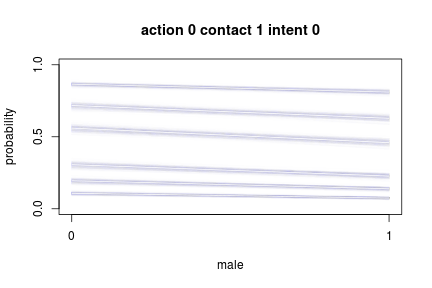
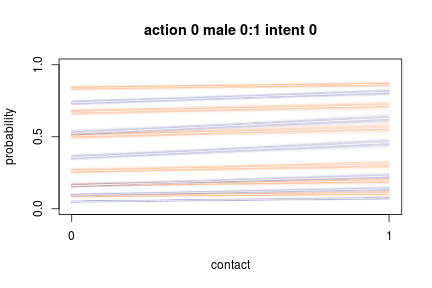
Complete draft pr 1 a code

Changed region(s): [[0.1505, 0.2812, 0.9028, 0.7188], [0.3009, 0.0625, 0.7523, 0.125], [0.4815, 0.9062, 0.5718, 0.9375]]

diff --git a/hw8ashander.tex b/hw8ashander.tex
@@ -448,110 +448,10 @@
 \definecolor{shadecolor}{rgb}{.97, .97, .97}{\color{fgcolor}\begin{kframe}
 \begin{flushleft}
 \ttfamily\noindent
-\hlsymbol{m0}{\ }\hlassignement{\usebox{\hlnormalsizeboxlessthan}-}{\ }\hlfunctioncall{mle2}\hlkeyword{(}\hlsymbol{response}{\ }\hlkeyword{\urltilda{}}{\ }\hlfunctioncall{dordlogit}\hlkeyword{(}\hlargument{a}{\ }\hlargument{=}{\ }\hlfunctioncall{c}\hlkeyword{(}\hlsymbol{a1}\hlkeyword{,}{\ }\hlsymbol{a2}\hlkeyword{,}{\ }\hlsymbol{a3}\hlkeyword{,}{\ }\hlsymbol{a4}\hlkeyword{,}{\ }\hlsymbol{a5}\hlkeyword{,}\hspace*{\fill}\\
-\hlstd{}{\ }{\ }{\ }{\ }\hlsymbol{a6}\hlkeyword{)}\hlkeyword{,}{\ }\hlargument{phi}{\ }\hlargument{=}{\ }\hlsymbol{bA}{\ }\hlkeyword{*}{\ }\hlsymbol{action}{\ }\hlkeyword{+}{\ }\hlsymbol{bI}{\ }\hlkeyword{*}{\ }\hlsymbol{intention}\hlkeyword{)}\hlkeyword{,}{\ }\hlargument{data}{\ }\hlargument{=}{\ }\hlsymbol{d}\hlkeyword{,}{\ }\hlargument{start}{\ }\hlargument{=}{\ }\hlfunctioncall{list}\hlkeyword{(}\hlargument{a1}{\ }\hlargument{=}{\ }\hlkeyword{-}\hlnumber{2}\hlkeyword{,}\hspace*{\fill}\\
-\hlstd{}{\ }{\ }{\ }{\ }\hlargument{a2}{\ }\hlargument{=}{\ }\hlkeyword{-}\hlnumber{1}\hlkeyword{,}{\ }\hlargument{a3}{\ }\hlargument{=}{\ }\hlnumber{0}\hlkeyword{,}{\ }\hlargument{a4}{\ }\hlargument{=}{\ }\hlnumber{1}\hlkeyword{,}{\ }\hlargument{a5}{\ }\hlargument{=}{\ }\hlnumber{2}\hlkeyword{,}{\ }\hlargument{a6}{\ }\hlargument{=}{\ }\hlnumber{2.5}\hlkeyword{,}{\ }\hlargument{bA}{\ }\hlargument{=}{\ }\hlnumber{0}\hlkeyword{,}{\ }\hlargument{bI}{\ }\hlargument{=}{\ }\hlnumber{0}\hlkeyword{)}\hlkeyword{)}\mbox{}
-\normalfont
-\end{flushleft}
-\begin{verbatim}
-## Warning message: NaNs produced
-\end{verbatim}
-\begin{verbatim}
-## Warning message: NaNs produced
-\end{verbatim}
-\begin{verbatim}
-## Warning message: NaNs produced
-\end{verbatim}
-\begin{verbatim}
-## Warning message: NaNs produced
-\end{verbatim}
-\begin{verbatim}
-## Warning message: NaNs produced
-\end{verbatim}
-\begin{verbatim}
-## Warning message: NaNs produced
-\end{verbatim}
-\begin{verbatim}
-## Warning message: NaNs produced
-\end{verbatim}
-\begin{verbatim}
-## Warning message: NaNs produced
-\end{verbatim}
-\begin{verbatim}
-## Warning message: NaNs produced
-\end{verbatim}
-\begin{verbatim}
-## Warning message: NaNs produced
-\end{verbatim}
-\begin{verbatim}
-## Warning message: NaNs produced
-\end{verbatim}
-\begin{verbatim}
-## Warning message: NaNs produced
-\end{verbatim}
-\begin{verbatim}
-## Warning message: NaNs produced
-\end{verbatim}
-\begin{verbatim}
-## Warning message: NaNs produced
-\end{verbatim}
-\begin{verbatim}
-## Warning message: NaNs produced
-\end{verbatim}
-\begin{verbatim}
-## Warning message: NaNs produced
-\end{verbatim}
-\begin{verbatim}
-## Warning message: NaNs produced
-\end{verbatim}
-\begin{verbatim}
-## Warning message: NaNs produced
-\end{verbatim}
-\begin{verbatim}
-## Warning message: NaNs produced
-\end{verbatim}
-\begin{verbatim}
-## Warning message: NaNs produced
-\end{verbatim}
-\begin{verbatim}
-## Warning message: NaNs produced
-\end{verbatim}
-\begin{verbatim}
-## Warning message: NaNs produced
-\end{verbatim}
-\begin{verbatim}
-## Warning message: NaNs produced
-\end{verbatim}
-\begin{verbatim}
-## Warning message: NaNs produced
-\end{verbatim}
-\begin{verbatim}
-## Warning message: NaNs produced
-\end{verbatim}
-\begin{verbatim}
-## Warning message: NaNs produced
-\end{verbatim}
-\begin{verbatim}
-## Warning message: NaNs produced
-\end{verbatim}
-\begin{verbatim}
-## Warning message: NaNs produced
-\end{verbatim}
-\begin{verbatim}
-## Warning message: NaNs produced
-\end{verbatim}
-\begin{verbatim}
-## Warning message: NaNs produced
-\end{verbatim}
-\begin{verbatim}
-## Warning message: NaNs produced
-\end{verbatim}
-\begin{verbatim}
-## Warning message: NaNs produced
-\end{verbatim}
-\begin{flushleft}
-\ttfamily\noindent
-\hspace*{\fill}\\
+\hlcomment{\usebox{\hlnormalsizeboxhash}m0{\ }\usebox{\hlnormalsizeboxlessthan}-{\ }mle2(response{\ }\urltilda{}{\ }dordlogit(a=c(a1,a2,a3,a4,a5,a6),}\hspace*{\fill}\\
+\hlstd{}\hlcomment{\usebox{\hlnormalsizeboxhash}{\ }{\ }{\ }phi=bA*action{\ }+{\ }bI*intention),{\ }data=d,}\hspace*{\fill}\\
+\hlstd{}\hlcomment{\usebox{\hlnormalsizeboxhash}{\ }{\ }{\ }start=list(a1=-2,a2=-1,a3=0,a4=1,a5=2,a6=2.5,bA=0,bI=0))}\hspace*{\fill}\\
+\hlstd{}\hspace*{\fill}\\
 \hlstd{}\hlsymbol{m1}{\ }\hlassignement{\usebox{\hlnormalsizeboxlessthan}-}{\ }\hlfunctioncall{polr}\hlkeyword{(}\hlfunctioncall{as.ordered}\hlkeyword{(}\hlsymbol{response}\hlkeyword{)}{\ }\hlkeyword{\urltilda{}}{\ }\hlsymbol{action}{\ }\hlkeyword{*}{\ }\hlsymbol{intention}{\ }\hlkeyword{+}{\ }\hlsymbol{contact}{\ }\hlkeyword{*}\hspace*{\fill}\\
 \hlstd{}{\ }{\ }{\ }{\ }\hlsymbol{intention}\hlkeyword{,}{\ }\hlargument{data}{\ }\hlargument{=}{\ }\hlsymbol{d}\hlkeyword{,}{\ }\hlargument{Hess}{\ }\hlargument{=}{\ }\hlnumber{TRUE}\hlkeyword{)}\hspace*{\fill}\\
 \hlstd{}\hlsymbol{m2}{\ }\hlassignement{\usebox{\hlnormalsizeboxlessthan}-}{\ }\hlfunctioncall{polr}\hlkeyword{(}\hlfunctioncall{as.ordered}\hlkeyword{(}\hlsymbol{response}\hlkeyword{)}{\ }\hlkeyword{\urltilda{}}{\ }\hlsymbol{action}{\ }\hlkeyword{*}{\ }\hlsymbol{intention}{\ }\hlkeyword{+}{\ }\hlsymbol{contact}{\ }\hlkeyword{*}\hspace*{\fill}\\
@@ -572,44 +472,58 @@
 \end{knitrout}
 
 
+Model an interaction between gender and contact. 
+Also look at a model without the interaction, but with gender. 
+
+Gender improves the model. 
+Model averaging is equivocal on the question of an interaction. 
+Both AICc and BIC put some weight on each of the models with gender (with and without an interaction). 
+BIC favors the interaction-less model, while AIC the other. 
+As a conservative test, I'll use model averaging based on AICc (which seems to favor an interaction between contact and gender) to  check for support for the interaction in plotted results. 
+
+
 \begin{knitrout}
 \definecolor{shadecolor}{rgb}{.97, .97, .97}{\color{fgcolor}\begin{kframe}
 \begin{flushleft}
 \ttfamily\noindent
 \hspace*{\fill}\\
-\hlstd{}\hlsymbol{post}{\ }\hlassignement{\usebox{\hlnormalsizeboxlessthan}-}{\ }\hlfunctioncall{sample.naive.posterior}\hlkeyword{(}\hlsymbol{m2}\hlkeyword{)}\hspace*{\fill}\\
+\hlstd{}\hlsymbol{post}{\ }\hlassignement{\usebox{\hlnormalsizeboxlessthan}-}{\ }\hlfunctioncall{sample.naive.posterior}\hlkeyword{(}\hlfunctioncall{list}\hlkeyword{(}\hlsymbol{m2}\hlkeyword{,}{\ }\hlsymbol{m3}\hlkeyword{)}\hlkeyword{,}{\ }\hlargument{n}{\ }\hlargument{=}{\ }\hlnumber{20000}\hlkeyword{,}{\ }\hlargument{method}{\ }\hlargument{=}{\ }\hlstring{"{}AICc"{}}\hlkeyword{,}\hspace*{\fill}\\
+\hlstd{}{\ }{\ }{\ }{\ }\hlargument{nobs}{\ }\hlargument{=}{\ }\hlfunctioncall{nrow}\hlkeyword{(}\hlsymbol{d}\hlkeyword{)}\hlkeyword{)}\hspace*{\fill}\\
 \hlstd{}\hlsymbol{prob.indices}{\ }\hlassignement{\usebox{\hlnormalsizeboxlessthan}-}{\ }\hlfunctioncall{grep}\hlkeyword{(}\hlstring{"{}1|2|3|4|5|6|7"{}}\hlkeyword{,}{\ }\hlfunctioncall{names}\hlkeyword{(}\hlsymbol{post}\hlkeyword{)}\hlkeyword{)}\hspace*{\fill}\\
 \hlstd{}\hspace*{\fill}\\
-\hlstd{}\hlfunctioncall{plot}\hlkeyword{(}\hlnumber{1}\hlkeyword{,}{\ }\hlnumber{1}\hlkeyword{,}{\ }\hlargument{type}{\ }\hlargument{=}{\ }\hlstring{"{}n"{}}\hlkeyword{,}{\ }\hlargument{xlab}{\ }\hlargument{=}{\ }\hlstring{"{}male"{}}\hlkeyword{,}{\ }\hlargument{ylab}{\ }\hlargument{=}{\ }\hlstring{"{}probability"{}}\hlkeyword{,}\hspace*{\fill}\\
+\hlstd{}\hlfunctioncall{plot}\hlkeyword{(}\hlnumber{1}\hlkeyword{,}{\ }\hlnumber{1}\hlkeyword{,}{\ }\hlargument{type}{\ }\hlargument{=}{\ }\hlstring{"{}n"{}}\hlkeyword{,}{\ }\hlargument{xlab}{\ }\hlargument{=}{\ }\hlstring{"{}contact"{}}\hlkeyword{,}{\ }\hlargument{ylab}{\ }\hlargument{=}{\ }\hlstring{"{}probability"{}}\hlkeyword{,}\hspace*{\fill}\\
 \hlstd{}{\ }{\ }{\ }{\ }\hlargument{xlim}{\ }\hlargument{=}{\ }\hlfunctioncall{c}\hlkeyword{(}\hlnumber{0}\hlkeyword{,}{\ }\hlnumber{1}\hlkeyword{)}\hlkeyword{,}{\ }\hlargument{ylim}{\ }\hlargument{=}{\ }\hlfunctioncall{c}\hlkeyword{(}\hlnumber{0}\hlkeyword{,}{\ }\hlnumber{1}\hlkeyword{)}\hlkeyword{,}{\ }\hlargument{xaxp}{\ }\hlargument{=}{\ }\hlfunctioncall{c}\hlkeyword{(}\hlnumber{0}\hlkeyword{,}{\ }\hlnumber{1}\hlkeyword{,}{\ }\hlnumber{1}\hlkeyword{)}\hlkeyword{,}{\ }\hlargument{yaxp}{\ }\hlargument{=}{\ }\hlfunctioncall{c}\hlkeyword{(}\hlnumber{0}\hlkeyword{,}{\ }\hlnumber{1}\hlkeyword{,}\hspace*{\fill}\\
 \hlstd{}{\ }{\ }{\ }{\ }{\ }{\ }{\ }{\ }\hlnumber{2}\hlkeyword{)}\hlkeyword{)}\hspace*{\fill}\\
+\hlstd{}\hlsymbol{col.vec}{\ }\hlassignement{\usebox{\hlnormalsizeboxlessthan}-}{\ }\hlfunctioncall{c}\hlkeyword{(}\hlstring{"{}orange"{}}\hlkeyword{,}{\ }\hlstring{"{}slateblue"{}}\hlkeyword{)}\hspace*{\fill}\\
+\hlstd{}\hlfunctioncall{title}\hlkeyword{(}\hlfunctioncall{paste}\hlkeyword{(}\hlstring{"{}action"{}}\hlkeyword{,}{\ }\hlsymbol{kA}\hlkeyword{,}{\ }\hlstring{"{}male{\ }0:1"{}}\hlkeyword{,}{\ }\hlstring{"{}intent"{}}\hlkeyword{,}{\ }\hlsymbol{kI}\hlkeyword{)}\hlkeyword{)}\hspace*{\fill}\\
 \hlstd{}\hspace*{\fill}\\
-\hlstd{}\hlsymbol{kA}{\ }\hlassignement{\usebox{\hlnormalsizeboxlessthan}-}{\ }\hlnumber{0}\hspace*{\fill}\\
-\hlstd{}\hlsymbol{kC}{\ }\hlassignement{\usebox{\hlnormalsizeboxlessthan}-}{\ }\hlnumber{1}\hspace*{\fill}\\
-\hlstd{}\hlsymbol{kI}{\ }\hlassignement{\usebox{\hlnormalsizeboxlessthan}-}{\ }\hlnumber{0}\hspace*{\fill}\\
-\hlstd{}\hlsymbol{kM}{\ }\hlassignement{\usebox{\hlnormalsizeboxlessthan}-}{\ }\hlnumber{0}\hlkeyword{:}\hlnumber{1}{\ }{\ }\hlcomment{\usebox{\hlnormalsizeboxhash}\usebox{\hlnormalsizeboxhash}{\ }variable{\ }axis}\hspace*{\fill}\\
-\hlstd{}\hlfunctioncall{title}\hlkeyword{(}\hlfunctioncall{paste}\hlkeyword{(}\hlstring{"{}action"{}}\hlkeyword{,}{\ }\hlsymbol{kA}\hlkeyword{,}{\ }\hlstring{"{}contact"{}}\hlkeyword{,}{\ }\hlsymbol{kC}\hlkeyword{,}{\ }\hlstring{"{}intent"{}}\hlkeyword{,}{\ }\hlsymbol{kI}\hlkeyword{)}\hlkeyword{)}\hspace*{\fill}\\
+\hlstd{}\hlkeyword{for}{\ }\hlkeyword{(}\hlsymbol{kM}{\ }\hlkeyword{in}{\ }\hlnumber{0}\hlkeyword{:}\hlnumber{1}\hlkeyword{)}{\ }\hlkeyword{\usebox{\hlnormalsizeboxopenbrace}}\hspace*{\fill}\\
+\hlstd{}{\ }{\ }{\ }{\ }\hlsymbol{kA}{\ }\hlassignement{\usebox{\hlnormalsizeboxlessthan}-}{\ }\hlnumber{0}\hspace*{\fill}\\
+\hlstd{}{\ }{\ }{\ }{\ }\hlsymbol{kI}{\ }\hlassignement{\usebox{\hlnormalsizeboxlessthan}-}{\ }\hlnumber{0}\hspace*{\fill}\\
+\hlstd{}{\ }{\ }{\ }{\ }\hlsymbol{kC}{\ }\hlassignement{\usebox{\hlnormalsizeboxlessthan}-}{\ }\hlnumber{0}\hlkeyword{:}\hlnumber{1}{\ }{\ }\hlcomment{\usebox{\hlnormalsizeboxhash}\usebox{\hlnormalsizeboxhash}{\ }variable{\ }axis}\hspace*{\fill}\\
 \hlstd{}\hspace*{\fill}\\
-\hlstd{}\hlkeyword{for}{\ }\hlkeyword{(}\hlsymbol{s}{\ }\hlkeyword{in}{\ }\hlnumber{1}\hlkeyword{:}\hlnumber{200}\hlkeyword{)}{\ }\hlkeyword{\usebox{\hlnormalsizeboxopenbrace}}\hspace*{\fill}\\
-\hlstd{}{\ }{\ }{\ }{\ }\hlsymbol{p}{\ }\hlassignement{\usebox{\hlnormalsizeboxlessthan}-}{\ }\hlsymbol{post}\hlkeyword{[}\hlsymbol{s}\hlkeyword{,}{\ }\hlkeyword{]}\hspace*{\fill}\\
+\hlstd{}{\ }{\ }{\ }{\ }\hlkeyword{for}{\ }\hlkeyword{(}\hlsymbol{s}{\ }\hlkeyword{in}{\ }\hlnumber{1}\hlkeyword{:}\hlnumber{200}\hlkeyword{)}{\ }\hlkeyword{\usebox{\hlnormalsizeboxopenbrace}}\hspace*{\fill}\\
+\hlstd{}{\ }{\ }{\ }{\ }{\ }{\ }{\ }{\ }\hlsymbol{p}{\ }\hlassignement{\usebox{\hlnormalsizeboxlessthan}-}{\ }\hlsymbol{post}\hlkeyword{[}\hlsymbol{s}\hlkeyword{,}{\ }\hlkeyword{]}\hspace*{\fill}\\
 \hlstd{}\hspace*{\fill}\\
-\hlstd{}{\ }{\ }{\ }{\ }\hlsymbol{ak}{\ }\hlassignement{\usebox{\hlnormalsizeboxlessthan}-}{\ }\hlfunctioncall{as.numeric}\hlkeyword{(}\hlsymbol{p}\hlkeyword{[}\hlsymbol{prob.indices}\hlkeyword{]}\hlkeyword{)}\hspace*{\fill}\\
-\hlstd{}{\ }{\ }{\ }{\ }\hlsymbol{phi}{\ }\hlassignement{\usebox{\hlnormalsizeboxlessthan}-}{\ }\hlfunctioncall{with}\hlkeyword{(}\hlsymbol{p}\hlkeyword{,}{\ }\hlsymbol{kA}{\ }\hlkeyword{*}{\ }\hlsymbol{action}{\ }\hlkeyword{+}{\ }\hlsymbol{kI}{\ }\hlkeyword{*}{\ }\hlsymbol{intention}{\ }\hlkeyword{+}{\ }\hlsymbol{kC}{\ }\hlkeyword{*}{\ }\hlsymbol{contact}{\ }\hlkeyword{+}{\ }\hlsymbol{kA}{\ }\hlkeyword{*}\hspace*{\fill}\\
-\hlstd{}{\ }{\ }{\ }{\ }{\ }{\ }{\ }{\ }\hlsymbol{kI}{\ }\hlkeyword{*}{\ }\hlsymbol{\usebox{\hlnormalsizeboxbacktick}action:intention\usebox{\hlnormalsizeboxbacktick}}{\ }\hlkeyword{+}{\ }\hlsymbol{kC}{\ }\hlkeyword{*}{\ }\hlsymbol{kI}{\ }\hlkeyword{*}{\ }\hlsymbol{\usebox{\hlnormalsizeboxbacktick}action:intention\usebox{\hlnormalsizeboxbacktick}}{\ }\hlkeyword{+}{\ }\hlsymbol{kM}{\ }\hlkeyword{*}\hspace*{\fill}\\
-\hlstd{}{\ }{\ }{\ }{\ }{\ }{\ }{\ }{\ }\hlsymbol{kC}{\ }\hlkeyword{*}{\ }\hlsymbol{\usebox{\hlnormalsizeboxbacktick}contact:male\usebox{\hlnormalsizeboxbacktick}}{\ }\hlkeyword{+}{\ }\hlsymbol{kM}{\ }\hlkeyword{*}{\ }\hlsymbol{male}\hlkeyword{)}\hspace*{\fill}\\
-\hlstd{}{\ }{\ }{\ }{\ }\hlsymbol{pk}{\ }\hlassignement{\usebox{\hlnormalsizeboxlessthan}-}{\ }\hlfunctioncall{pordlogit}\hlkeyword{(}\hlnumber{1}\hlkeyword{:}\hlnumber{6}\hlkeyword{,}{\ }\hlargument{a}{\ }\hlargument{=}{\ }\hlsymbol{ak}\hlkeyword{,}{\ }\hlargument{phi}{\ }\hlargument{=}{\ }\hlsymbol{phi}\hlkeyword{)}\hspace*{\fill}\\
-\hlstd{}{\ }{\ }{\ }{\ }\hlkeyword{for}{\ }\hlkeyword{(}\hlsymbol{i}{\ }\hlkeyword{in}{\ }\hlnumber{1}\hlkeyword{:}\hlnumber{6}\hlkeyword{)}{\ }\hlfunctioncall{lines}\hlkeyword{(}\hlsymbol{male}\hlkeyword{,}{\ }\hlsymbol{pk}\hlkeyword{[}\hlkeyword{,}{\ }\hlsymbol{i}\hlkeyword{]}\hlkeyword{,}{\ }\hlargument{col}{\ }\hlargument{=}{\ }\hlfunctioncall{col.alpha}\hlkeyword{(}\hlstring{"{}slateblue"{}}\hlkeyword{,}\hspace*{\fill}\\
-\hlstd{}{\ }{\ }{\ }{\ }{\ }{\ }{\ }{\ }\hlnumber{0.01}\hlkeyword{)}\hlkeyword{)}\hspace*{\fill}\\
-\hlstd{}\hlkeyword{\usebox{\hlnormalsizeboxclosebrace}}\hspace*{\fill}\\
+\hlstd{}{\ }{\ }{\ }{\ }{\ }{\ }{\ }{\ }\hlsymbol{ak}{\ }\hlassignement{\usebox{\hlnormalsizeboxlessthan}-}{\ }\hlfunctioncall{as.numeric}\hlkeyword{(}\hlsymbol{p}\hlkeyword{[}\hlsymbol{prob.indices}\hlkeyword{]}\hlkeyword{)}\hspace*{\fill}\\
+\hlstd{}{\ }{\ }{\ }{\ }{\ }{\ }{\ }{\ }\hlsymbol{phi}{\ }\hlassignement{\usebox{\hlnormalsizeboxlessthan}-}{\ }\hlfunctioncall{with}\hlkeyword{(}\hlsymbol{p}\hlkeyword{,}{\ }\hlsymbol{kA}{\ }\hlkeyword{*}{\ }\hlsymbol{action}{\ }\hlkeyword{+}{\ }\hlsymbol{kI}{\ }\hlkeyword{*}{\ }\hlsymbol{intention}{\ }\hlkeyword{+}{\ }\hlsymbol{kC}{\ }\hlkeyword{*}{\ }\hlsymbol{contact}{\ }\hlkeyword{+}\hspace*{\fill}\\
+\hlstd{}{\ }{\ }{\ }{\ }{\ }{\ }{\ }{\ }{\ }{\ }{\ }{\ }\hlsymbol{kA}{\ }\hlkeyword{*}{\ }\hlsymbol{kI}{\ }\hlkeyword{*}{\ }\hlsymbol{\usebox{\hlnormalsizeboxbacktick}action:intention\usebox{\hlnormalsizeboxbacktick}}{\ }\hlkeyword{+}{\ }\hlsymbol{kC}{\ }\hlkeyword{*}{\ }\hlsymbol{kI}{\ }\hlkeyword{*}{\ }\hlsymbol{\usebox{\hlnormalsizeboxbacktick}action:intention\usebox{\hlnormalsizeboxbacktick}}{\ }\hlkeyword{+}\hspace*{\fill}\\
+\hlstd{}{\ }{\ }{\ }{\ }{\ }{\ }{\ }{\ }{\ }{\ }{\ }{\ }\hlsymbol{kM}{\ }\hlkeyword{*}{\ }\hlsymbol{kC}{\ }\hlkeyword{*}{\ }\hlsymbol{\usebox{\hlnormalsizeboxbacktick}contact:male\usebox{\hlnormalsizeboxbacktick}}{\ }\hlkeyword{+}{\ }\hlsymbol{kM}{\ }\hlkeyword{*}{\ }\hlsymbol{male}\hlkeyword{)}\hspace*{\fill}\\
+\hlstd{}{\ }{\ }{\ }{\ }{\ }{\ }{\ }{\ }\hlsymbol{pk}{\ }\hlassignement{\usebox{\hlnormalsizeboxlessthan}-}{\ }\hlfunctioncall{pordlogit}\hlkeyword{(}\hlnumber{1}\hlkeyword{:}\hlnumber{6}\hlkeyword{,}{\ }\hlargument{a}{\ }\hlargument{=}{\ }\hlsymbol{ak}\hlkeyword{,}{\ }\hlargument{phi}{\ }\hlargument{=}{\ }\hlsymbol{phi}\hlkeyword{)}\hspace*{\fill}\\
+\hlstd{}{\ }{\ }{\ }{\ }{\ }{\ }{\ }{\ }\hlkeyword{for}{\ }\hlkeyword{(}\hlsymbol{i}{\ }\hlkeyword{in}{\ }\hlnumber{1}\hlkeyword{:}\hlnumber{6}\hlkeyword{)}{\ }\hlfunctioncall{lines}\hlkeyword{(}\hlsymbol{kC}\hlkeyword{,}{\ }\hlsymbol{pk}\hlkeyword{[}\hlkeyword{,}{\ }\hlsymbol{i}\hlkeyword{]}\hlkeyword{,}{\ }\hlargument{col}{\ }\hlargument{=}{\ }\hlfunctioncall{col.alpha}\hlkeyword{(}\hlsymbol{col.vec}\hlkeyword{[}\hlsymbol{kM}{\ }\hlkeyword{+}\hspace*{\fill}\\
+\hlstd{}{\ }{\ }{\ }{\ }{\ }{\ }{\ }{\ }{\ }{\ }{\ }{\ }\hlnumber{1}\hlkeyword{]}\hlkeyword{,}{\ }\hlnumber{0.01}\hlkeyword{)}\hlkeyword{)}\hspace*{\fill}\\
+\hlstd{}{\ }{\ }{\ }{\ }\hlkeyword{\usebox{\hlnormalsizeboxclosebrace}}\hspace*{\fill}\\
 \hlstd{}\hspace*{\fill}\\
-\hlstd{}\hlsymbol{pmle}{\ }\hlassignement{\usebox{\hlnormalsizeboxlessthan}-}{\ }\hlfunctioncall{as.list}\hlkeyword{(}\hlfunctioncall{coef}\hlkeyword{(}\hlsymbol{m2}\hlkeyword{)}\hlkeyword{)}\hspace*{\fill}\\
-\hlstd{}\hlkeyword{if}{\ }\hlkeyword{(}\hlfunctioncall{class}\hlkeyword{(}\hlsymbol{m2}\hlkeyword{)}{\ }=={\ }\hlstring{"{}polr"{}}\hlkeyword{)}{\ }\hlsymbol{ak}{\ }\hlassignement{\usebox{\hlnormalsizeboxlessthan}-}{\ }\hlsymbol{m2}\hlkeyword{\usebox{\hlnormalsizeboxdollar}}\hlsymbol{zeta}\hspace*{\fill}\\
-\hlstd{}\hlcomment{\usebox{\hlnormalsizeboxhash}else{\ }ak{\ }\usebox{\hlnormalsizeboxlessthan}-{\ }as.numeric(pmle[prob.indices]))}\hspace*{\fill}\\
-\hlstd{}\hlsymbol{phi}{\ }\hlassignement{\usebox{\hlnormalsizeboxlessthan}-}{\ }\hlfunctioncall{with}\hlkeyword{(}\hlsymbol{pmle}\hlkeyword{,}{\ }\hlsymbol{kA}{\ }\hlkeyword{*}{\ }\hlsymbol{action}{\ }\hlkeyword{+}{\ }\hlsymbol{kI}{\ }\hlkeyword{*}{\ }\hlsymbol{intention}{\ }\hlkeyword{+}{\ }\hlsymbol{kC}{\ }\hlkeyword{*}{\ }\hlsymbol{contact}{\ }\hlkeyword{+}\hspace*{\fill}\\
-\hlstd{}{\ }{\ }{\ }{\ }\hlsymbol{kA}{\ }\hlkeyword{*}{\ }\hlsymbol{kI}{\ }\hlkeyword{*}{\ }\hlsymbol{\usebox{\hlnormalsizeboxbacktick}action:intention\usebox{\hlnormalsizeboxbacktick}}{\ }\hlkeyword{+}{\ }\hlsymbol{kC}{\ }\hlkeyword{*}{\ }\hlsymbol{kI}{\ }\hlkeyword{*}{\ }\hlsymbol{\usebox{\hlnormalsizeboxbacktick}action:intention\usebox{\hlnormalsizeboxbacktick}}{\ }\hlkeyword{+}{\ }\hlsymbol{kM}{\ }\hlkeyword{*}\hspace*{\fill}\\
-\hlstd{}{\ }{\ }{\ }{\ }\hlsymbol{kC}{\ }\hlkeyword{*}{\ }\hlsymbol{\usebox{\hlnormalsizeboxbacktick}contact:male\usebox{\hlnormalsizeboxbacktick}}{\ }\hlkeyword{+}{\ }\hlsymbol{kM}{\ }\hlkeyword{*}{\ }\hlsymbol{male}\hlkeyword{)}\hspace*{\fill}\\
-\hlstd{}\hlsymbol{pk.mle}{\ }\hlassignement{\usebox{\hlnormalsizeboxlessthan}-}{\ }\hlfunctioncall{pordlogit}\hlkeyword{(}\hlnumber{1}\hlkeyword{:}\hlnumber{6}\hlkeyword{,}{\ }\hlargument{a}{\ }\hlargument{=}{\ }\hlsymbol{ak}\hlkeyword{,}{\ }\hlargument{phi}{\ }\hlargument{=}{\ }\hlsymbol{phi}\hlkeyword{)}\hspace*{\fill}\\
-\hlstd{}\hlkeyword{for}{\ }\hlkeyword{(}\hlsymbol{i}{\ }\hlkeyword{in}{\ }\hlnumber{1}\hlkeyword{:}\hlnumber{6}\hlkeyword{)}{\ }\hlfunctioncall{lines}\hlkeyword{(}\hlnumber{0}\hlkeyword{:}\hlnumber{1}\hlkeyword{,}{\ }\hlsymbol{pk.mle}\hlkeyword{[}\hlkeyword{,}{\ }\hlsymbol{i}\hlkeyword{]}\hlkeyword{,}{\ }\hlargument{col}{\ }\hlargument{=}{\ }\hlstring{"{}white"{}}\hlkeyword{)}\mbox{}
+\hlstd{}{\ }{\ }{\ }{\ }\hlsymbol{pmle}{\ }\hlassignement{\usebox{\hlnormalsizeboxlessthan}-}{\ }\hlfunctioncall{as.list}\hlkeyword{(}\hlfunctioncall{coef}\hlkeyword{(}\hlsymbol{m2}\hlkeyword{)}\hlkeyword{)}\hspace*{\fill}\\
+\hlstd{}{\ }{\ }{\ }{\ }\hlkeyword{if}{\ }\hlkeyword{(}\hlfunctioncall{class}\hlkeyword{(}\hlsymbol{m2}\hlkeyword{)}{\ }=={\ }\hlstring{"{}polr"{}}\hlkeyword{)}\hspace*{\fill}\\
+\hlstd{}{\ }{\ }{\ }{\ }{\ }{\ }{\ }{\ }\hlsymbol{ak}{\ }\hlassignement{\usebox{\hlnormalsizeboxlessthan}-}{\ }\hlsymbol{m2}\hlkeyword{\usebox{\hlnormalsizeboxdollar}}\hlsymbol{zeta}\hspace*{\fill}\\
+\hlstd{}{\ }{\ }{\ }{\ }\hlcomment{\usebox{\hlnormalsizeboxhash}else{\ }ak{\ }\usebox{\hlnormalsizeboxlessthan}-{\ }as.numeric(pmle[prob.indices]))}\hspace*{\fill}\\
+\hlstd{}{\ }{\ }{\ }{\ }\hlsymbol{phi}\hlsymbol{}{\ }\hlassignement{\usebox{\hlnormalsizeboxlessthan}-}{\ }\hlfunctioncall{with}\hlkeyword{(}\hlsymbol{pmle}\hlkeyword{,}{\ }\hlsymbol{kA}{\ }\hlkeyword{*}{\ }\hlsymbol{action}{\ }\hlkeyword{+}{\ }\hlsymbol{kI}{\ }\hlkeyword{*}{\ }\hlsymbol{intention}{\ }\hlkeyword{+}{\ }\hlsymbol{kC}{\ }\hlkeyword{*}{\ }\hlsymbol{contact}{\ }\hlkeyword{+}\hspace*{\fill}\\
+\hlstd{}{\ }{\ }{\ }{\ }{\ }{\ }{\ }{\ }\hlsymbol{kA}{\ }\hlkeyword{*}{\ }\hlsymbol{kI}{\ }\hlkeyword{*}{\ }\hlsymbol{\usebox{\hlnormalsizeboxbacktick}action:intention\usebox{\hlnormalsizeboxbacktick}}{\ }\hlkeyword{+}{\ }\hlsymbol{kC}{\ }\hlkeyword{*}{\ }\hlsymbol{kI}{\ }\hlkeyword{*}{\ }\hlsymbol{\usebox{\hlnormalsizeboxbacktick}action:intention\usebox{\hlnormalsizeboxbacktick}}{\ }\hlkeyword{+}\hspace*{\fill}\\
+\hlstd{}{\ }{\ }{\ }{\ }{\ }{\ }{\ }{\ }\hlsymbol{kM}{\ }\hlkeyword{*}{\ }\hlsymbol{kC}{\ }\hlkeyword{*}{\ }\hlsymbol{\usebox{\hlnormalsizeboxbacktick}contact:male\usebox{\hlnormalsizeboxbacktick}}{\ }\hlkeyword{+}{\ }\hlsymbol{kM}{\ }\hlkeyword{*}{\ }\hlsymbol{male}\hlkeyword{)}\hspace*{\fill}\\
+\hlstd{}{\ }{\ }{\ }{\ }\hlsymbol{pk.mle}{\ }\hlassignement{\usebox{\hlnormalsizeboxlessthan}-}{\ }\hlfunctioncall{pordlogit}\hlkeyword{(}\hlnumber{1}\hlkeyword{:}\hlnumber{6}\hlkeyword{,}{\ }\hlargument{a}{\ }\hlargument{=}{\ }\hlsymbol{ak}\hlkeyword{,}{\ }\hlargument{phi}{\ }\hlargument{=}{\ }\hlsymbol{phi}\hlkeyword{)}\hspace*{\fill}\\
+\hlstd{}{\ }{\ }{\ }{\ }\hlkeyword{for}{\ }\hlkeyword{(}\hlsymbol{i}{\ }\hlkeyword{in}{\ }\hlnumber{1}\hlkeyword{:}\hlnumber{6}\hlkeyword{)}{\ }\hlfunctioncall{lines}\hlkeyword{(}\hlnumber{0}\hlkeyword{:}\hlnumber{1}\hlkeyword{,}{\ }\hlsymbol{pk.mle}\hlkeyword{[}\hlkeyword{,}{\ }\hlsymbol{i}\hlkeyword{]}\hlkeyword{,}{\ }\hlargument{col}{\ }\hlargument{=}{\ }\hlstring{"{}white"{}}\hlkeyword{)}\hspace*{\fill}\\
+\hlstd{}\hlkeyword{\usebox{\hlnormalsizeboxclosebrace}}\mbox{}
 \normalfont
 \end{flushleft}
 
@@ -620,6 +534,32 @@
 \end{knitrout}
 
 
+Light gray = female; dark gray = male. 
+
+\begin{knitrout}
+\definecolor{shadecolor}{rgb}{.97, .97, .97}{\color{fgcolor}\begin{kframe}
+\begin{flushleft}
+\ttfamily\noindent
+\hspace*{\fill}\\
+\hlstd{}\hlsymbol{op}{\ }\hlassignement{\usebox{\hlnormalsizeboxlessthan}-}{\ }\hlfunctioncall{par}\hlkeyword{(}\hlargument{mfrow}{\ }\hlargument{=}{\ }\hlfunctioncall{c}\hlkeyword{(}\hlnumber{1}\hlkeyword{,}{\ }\hlnumber{2}\hlkeyword{)}\hlkeyword{)}\hspace*{\fill}\\
+\hlstd{}\hlfunctioncall{dens}\hlkeyword{(}\hlsymbol{post}\hlkeyword{\usebox{\hlnormalsizeboxdollar}}\hlsymbol{\usebox{\hlnormalsizeboxbacktick}contact:male\usebox{\hlnormalsizeboxbacktick}}\hlkeyword{,}{\ }\hlargument{main}{\ }\hlargument{=}{\ }\hlstring{"{}AICc"{}}\hlkeyword{)}\hspace*{\fill}\\
+\hlstd{}\hlsymbol{post}{\ }\hlassignement{\usebox{\hlnormalsizeboxlessthan}-}{\ }\hlfunctioncall{sample.naive.posterior}\hlkeyword{(}\hlfunctioncall{list}\hlkeyword{(}\hlsymbol{m2}\hlkeyword{,}{\ }\hlsymbol{m3}\hlkeyword{)}\hlkeyword{,}{\ }\hlargument{n}{\ }\hlargument{=}{\ }\hlnumber{20000}\hlkeyword{,}{\ }\hlargument{method}{\ }\hlargument{=}{\ }\hlstring{"{}BIC"{}}\hlkeyword{,}\hspace*{\fill}\\
+\hlstd{}{\ }{\ }{\ }{\ }\hlargument{nobs}{\ }\hlargument{=}{\ }\hlfunctioncall{nrow}\hlkeyword{(}\hlsymbol{d}\hlkeyword{)}\hlkeyword{)}\hspace*{\fill}\\
+\hlstd{}\hlfunctioncall{dens}\hlkeyword{(}\hlsymbol{post}\hlkeyword{\usebox{\hlnormalsizeboxdollar}}\hlsymbol{\usebox{\hlnormalsizeboxbacktick}contact:male\usebox{\hlnormalsizeboxbacktick}}\hlkeyword{,}{\ }\hlargument{main}{\ }\hlargument{=}{\ }\hlstring{"{}BIC"{}}\hlkeyword{)}\hspace*{\fill}\\
+\hlstd{}\hlfunctioncall{par}\hlkeyword{(}\hlsymbol{op}\hlkeyword{)}\mbox{}
+\normalfont
+\end{flushleft}
+
+
+\centering{}\includegraphics{interact-coef} 
+
+\end{kframe}}
+\end{knitrout}
+
+Model-averaged value for the interaction coefficient between {\tt contact} and {\tt male}. 
+
+
+\subsubsection*{(b)}
 
 
 \subsection*{Basketball}
